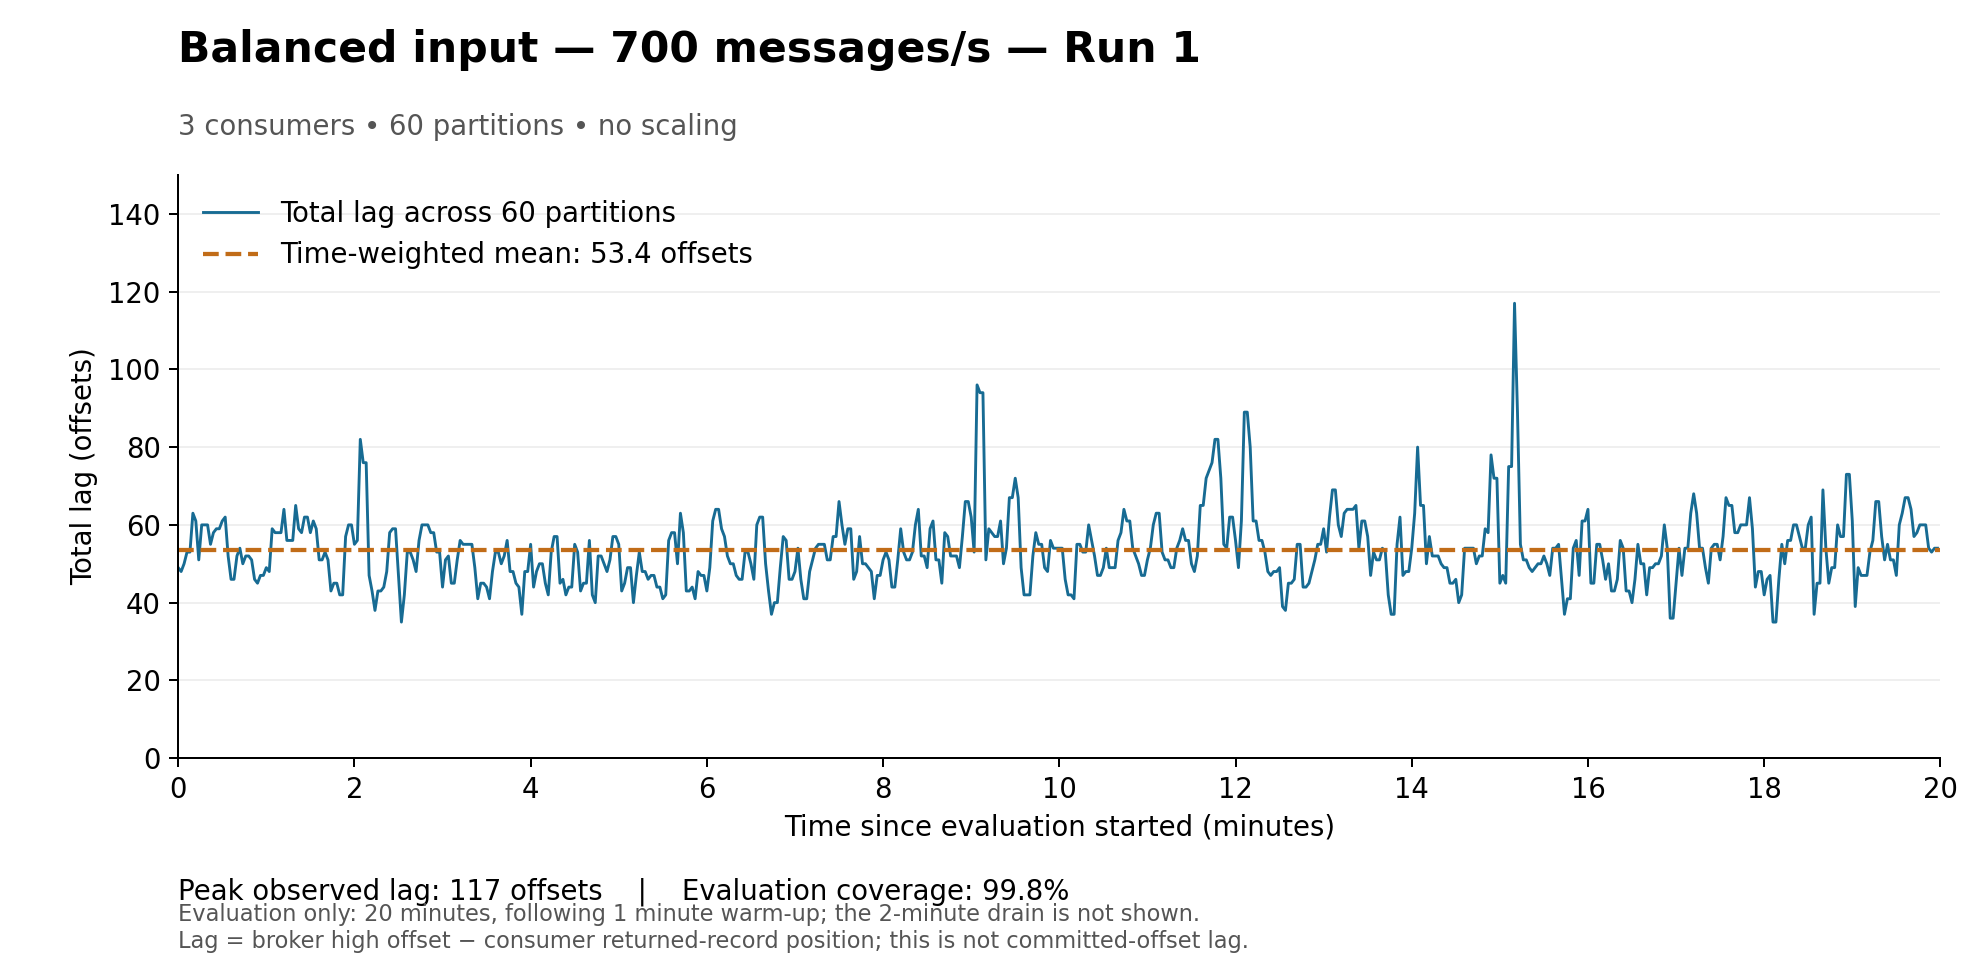
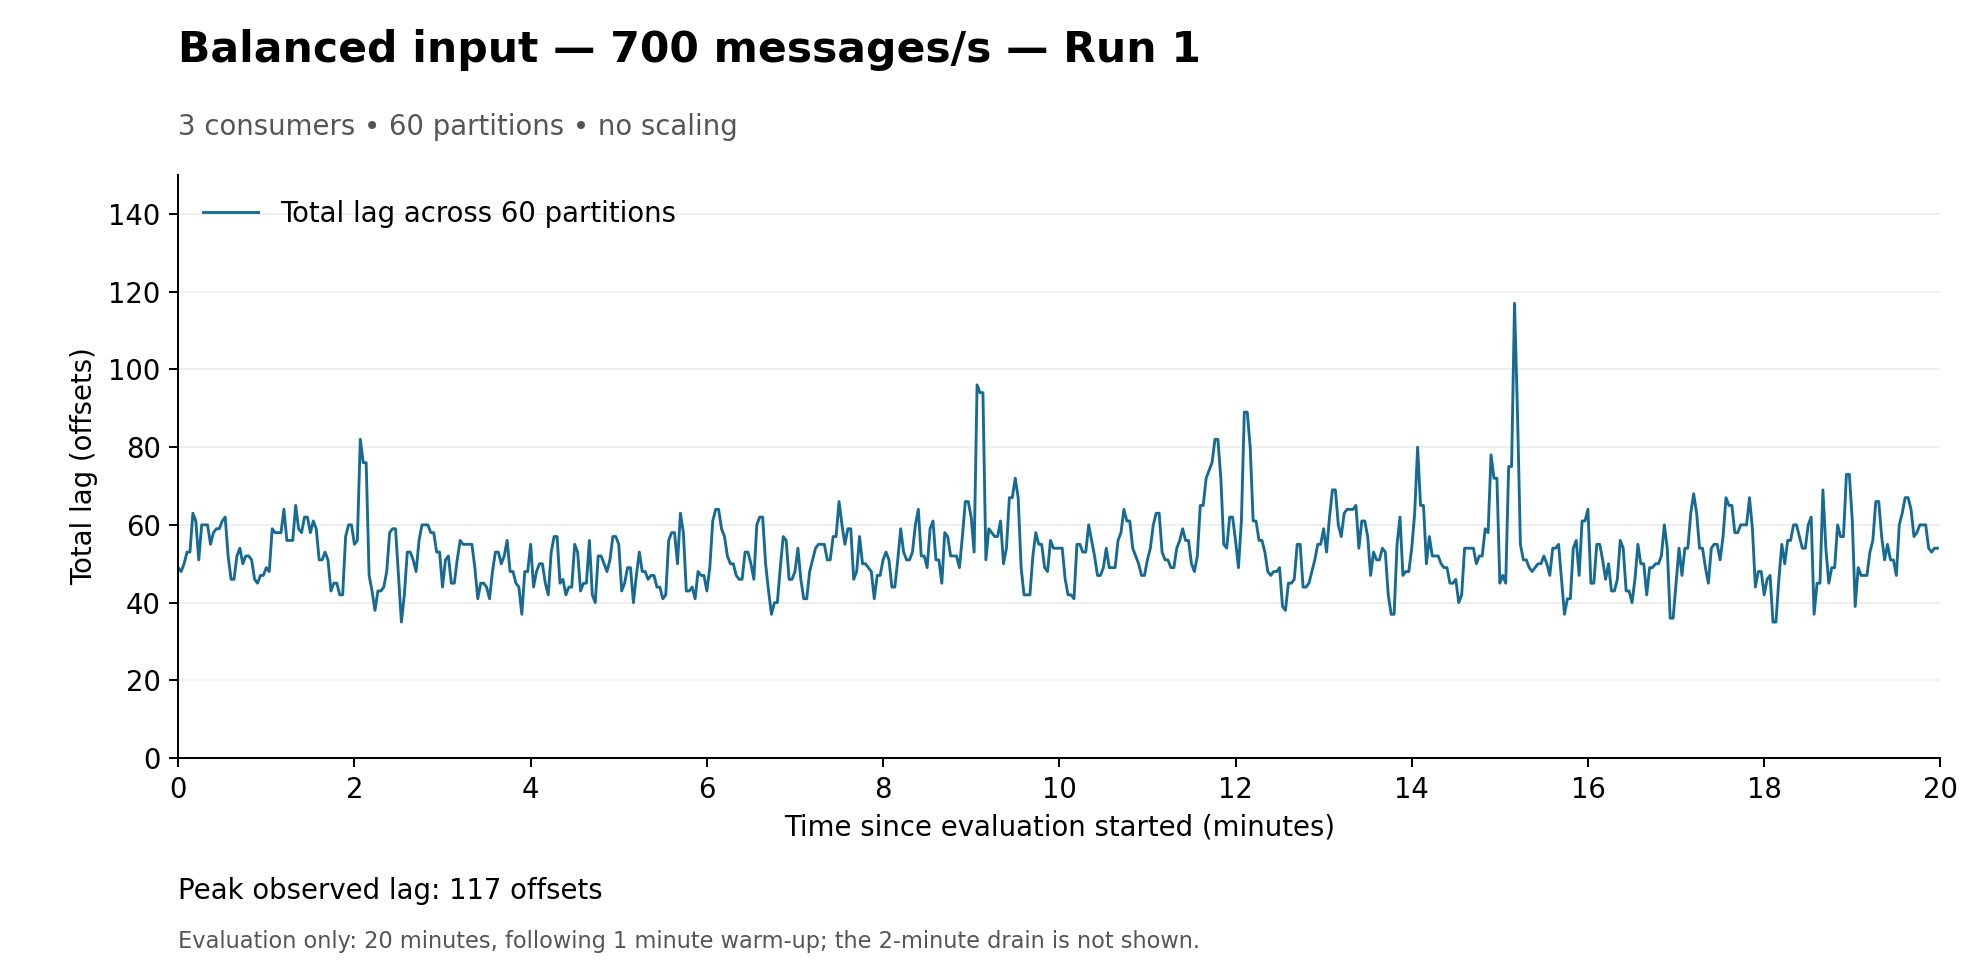
Simplify lag figure annotations as requested

Changed region(s): [[0.0924, 0.8951, 0.647, 0.9877], [0.0924, 0.5556, 0.9859, 0.5864], [0.0924, 0.2469, 0.3697, 0.2778]]

diff --git a/experiments/stability-fixed3-20260921/plot_first_lag.py b/experiments/stability-fixed3-20260921/plot_first_lag.py
@@ -32,14 +32,12 @@ for row in lag['snapshots']:
 plt.rcParams.update({'font.family':'DejaVu Sans','font.size':11,'axes.spines.top':False,'axes.spines.right':False})
 fig,ax=plt.subplots(figsize=(11,5.4))
 ax.plot(x,y,color='#176b93',linewidth=1.15,label=f'Total lag across {partitions} partitions')
-mean=lag['time_weighted_mean_lag']
-ax.axhline(mean,color='#c16c18',linestyle='--',linewidth=1.7,label=f'Time-weighted mean: {mean:,.1f} offsets')
 ax.set(xlim=(0,duration),ylim=(0,max(150,lag['peak_sampled_lag']*1.18)),xlabel='Time since evaluation started (minutes)',ylabel='Total lag (offsets)')
 ax.set_xticks(np.linspace(0,duration,11));ax.grid(axis='y',alpha=.2);ax.legend(loc='upper left',frameon=False)
 fig.suptitle(f'Balanced input — {rate:,.0f} messages/s — Run {number}',x=.09,ha='left',fontsize=17,fontweight='bold',y=.97)
 ax.set_title(f"{cfg['CONSUMER_POD_COUNT']} consumers • {partitions} partitions • no scaling",loc='left',fontsize=11,pad=16,color='#555555')
-fig.text(.09,.075,f"Peak observed lag: {lag['peak_sampled_lag']:,.0f} offsets    |    Evaluation coverage: {100*lag['covered_fraction']:.1f}%",fontsize=11)
-fig.text(.09,.025,f"Evaluation only: {duration:g} minutes, following {float(cfg['WARMUP_SECONDS'])/60:g} minute warm-up; the {float(cfg['DRAIN_SECONDS'])/60:g}-minute drain is not shown.\nLag = broker high offset − consumer returned-record position; this is not committed-offset lag.",fontsize=9,color='#555555')
+fig.text(.09,.075,f"Peak observed lag: {lag['peak_sampled_lag']:,.0f} offsets",fontsize=11)
+fig.text(.09,.025,f"Evaluation only: {duration:g} minutes, following {float(cfg['WARMUP_SECONDS'])/60:g} minute warm-up; the {float(cfg['DRAIN_SECONDS'])/60:g}-minute drain is not shown.",fontsize=9,color='#555555')
 fig.subplots_adjust(left=.09,right=.98,top=.82,bottom=.22)
 args.output.parent.mkdir(parents=True,exist_ok=True)
 fig.savefig(args.output.with_suffix('.png'),dpi=180,facecolor='white')
